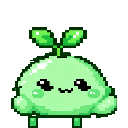
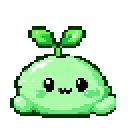
Clean up drag assets and fix release animation

Changed region(s): [[0.0625, 0.1875, 0.9375, 1.0], [0.3125, 0.75, 0.3438, 0.7812]]

diff --git a/src/mochi/buddy.py b/src/mochi/buddy.py
@@ -27,7 +27,7 @@ from mochi.behavior import (
     choose_walk_animation,
 )
 from mochi.config import ConfigStore
-from mochi.drag_motion import DragMotionModel
+from mochi.drag_motion import DragMotionModel, drag_pose_sprite, drag_settle_sprite
 from mochi.sprites import ANIMATIONS, SpriteAtlas
 from mochi.sound import SoundEvent, SoundManager
 from mochi.state import MochiState, StateMachine
@@ -727,13 +727,12 @@ class Buddy(Gtk.DrawingArea):
 
     def _play_drag_pose(self) -> None:
         intensity = self._drag_motion.horizontal_intensity
-        magnitude = abs(intensity)
-        if magnitude < 0.20:
-            self._drag_frame_index = 0
-        else:
-            level = 1 if magnitude < 0.50 else 2 if magnitude < 0.80 else 3
-            # Rightward motion trails left; leftward motion trails right.
-            self._drag_frame_index = 3 + level if intensity < 0 else level
+        sprite = drag_pose_sprite(intensity)
+        self._drag_frame_index = next(
+            index
+            for index, frame in enumerate(ANIMATIONS["dragged"].frames)
+            if frame.sprite == sprite
+        )
         body_offset = round(self._drag_motion.body_sway * 14)
         animation = replace(
             ANIMATIONS["dragged"],
@@ -751,15 +750,17 @@ class Buddy(Gtk.DrawingArea):
         self.queue_draw()
 
     def _play_drag_settle(self) -> None:
-        settle_index = (
-            7
-            if 1 <= self._drag_frame_index <= 3
-            else 8
-            if 4 <= self._drag_frame_index <= 6
-            else 9
+        dragged_frames = ANIMATIONS["dragged"].frames
+        pose_sprite = dragged_frames[self._drag_frame_index].sprite
+        settle_sprite = drag_settle_sprite(pose_sprite)
+        current = next(
+            frame for frame in dragged_frames if frame.sprite == settle_sprite
         )
-        current = ANIMATIONS["dragged"].frames[settle_index]
-        neutral = ANIMATIONS["dragged"].frames[9]
+        neutral = next(
+            frame
+            for frame in dragged_frames
+            if frame.sprite == "drag/drag_settle_neutral.png"
+        )
         settle = Animation(
             name="drag_settle",
             frames=(

diff --git a/tests/test_drag_motion.py b/tests/test_drag_motion.py
@@ -1,6 +1,6 @@
 import unittest
 
-from mochi.drag_motion import DragMotionModel
+from mochi.drag_motion import DragMotionModel, drag_pose_sprite, drag_settle_sprite
 
 
 class DragMotionModelTests(unittest.TestCase):
@@ -44,6 +44,27 @@ class DragMotionModelTests(unittest.TestCase):
         self.assertEqual(motion.leg_sway, 0.0)
         motion.update(100, 0, 0.2)
         self.assertEqual(motion.leg_sway, 0.0)
+
+    def test_drag_pose_uses_the_remaining_soft_and_medium_frames(self) -> None:
+        self.assertEqual(drag_pose_sprite(0.0), "drag/drag_neutral.png")
+        self.assertEqual(drag_pose_sprite(0.3), "drag/drag_left_soft.png")
+        self.assertEqual(drag_pose_sprite(1.0), "drag/drag_left_medium.png")
+        self.assertEqual(drag_pose_sprite(-0.3), "drag/drag_right_soft.png")
+        self.assertEqual(drag_pose_sprite(-1.0), "drag/drag_right_medium.png")
+
+    def test_drag_release_selects_a_valid_directional_settle_frame(self) -> None:
+        self.assertEqual(
+            drag_settle_sprite("drag/drag_left_medium.png"),
+            "drag/drag_settle_left.png",
+        )
+        self.assertEqual(
+            drag_settle_sprite("drag/drag_right_soft.png"),
+            "drag/drag_settle_right.png",
+        )
+        self.assertEqual(
+            drag_settle_sprite("drag/drag_neutral.png"),
+            "drag/drag_settle_neutral.png",
+        )
 
 
 if __name__ == "__main__":

diff --git a/src/mochi/drag_motion.py b/src/mochi/drag_motion.py
@@ -10,6 +10,25 @@ def _clamp(value: float, lower: float, upper: float) -> float:
     return max(lower, min(value, upper))
 
 
+def drag_pose_sprite(horizontal_intensity: float) -> str:
+    """Choose a drag pose without depending on manifest frame positions."""
+    magnitude = abs(horizontal_intensity)
+    if magnitude < 0.20:
+        return "drag/drag_neutral.png"
+    direction = "left" if horizontal_intensity > 0 else "right"
+    strength = "soft" if magnitude < 0.50 else "medium"
+    return f"drag/drag_{direction}_{strength}.png"
+
+
+def drag_settle_sprite(pose_sprite: str) -> str:
+    """Choose the release pose that corresponds to the current drag pose."""
+    if pose_sprite.startswith("drag/drag_left_"):
+        return "drag/drag_settle_left.png"
+    if pose_sprite.startswith("drag/drag_right_"):
+        return "drag/drag_settle_right.png"
+    return "drag/drag_settle_neutral.png"
+
+
 @dataclass
 class DragMotionModel:
     smoothing: float = 0.28

diff --git a/tests/test_buddy.py b/tests/test_buddy.py
@@ -1,0 +1,30 @@
+import unittest
+from types import SimpleNamespace
+from unittest.mock import Mock
+
+from mochi.buddy import Buddy
+
+
+class BuddyDragReleaseTests(unittest.TestCase):
+    def test_drag_release_builds_settle_animation_from_current_pose(self) -> None:
+        buddy = SimpleNamespace(
+            _drag_frame_index=4,
+            _current_animation="dragged",
+            _active_animation=None,
+            _pending_animation=None,
+            player=Mock(),
+            queue_draw=Mock(),
+        )
+
+        Buddy._play_drag_settle(buddy)
+
+        settle = buddy.player.play.call_args.args[0]
+        self.assertEqual(
+            tuple(frame.sprite for frame in settle.frames),
+            ("drag/drag_settle_right.png", "drag/drag_settle_neutral.png"),
+        )
+        self.assertEqual(buddy._pending_animation, "idle")
+
+
+if __name__ == "__main__":
+    unittest.main()

diff --git a/tests/test_sprites.py b/tests/test_sprites.py
@@ -72,12 +72,12 @@ class SpriteDefinitionsTests(unittest.TestCase):
 
     def test_drag_uses_a_subtle_manifest_dangling_loop(self) -> None:
         dragged = ANIMATIONS["dragged"]
-        self.assertEqual(len(dragged.frames), 10)
+        self.assertEqual(len(dragged.frames), 8)
         self.assertEqual(dragged.frame_duration_ms, 167)
         self.assertTrue(dragged.looping)
         surfaces = SpriteAtlas().frames
         drag_pixels = [bytes(surfaces[frame.sprite].get_data()) for frame in dragged.frames]
-        self.assertGreaterEqual(len(set(drag_pixels)), 9)
+        self.assertEqual(len(set(drag_pixels)), 8)
 
     def test_walk_uses_a_slow_looping_bounce_prototype(self) -> None:
         self.assertTrue(ANIMATIONS["walk"].looping)
